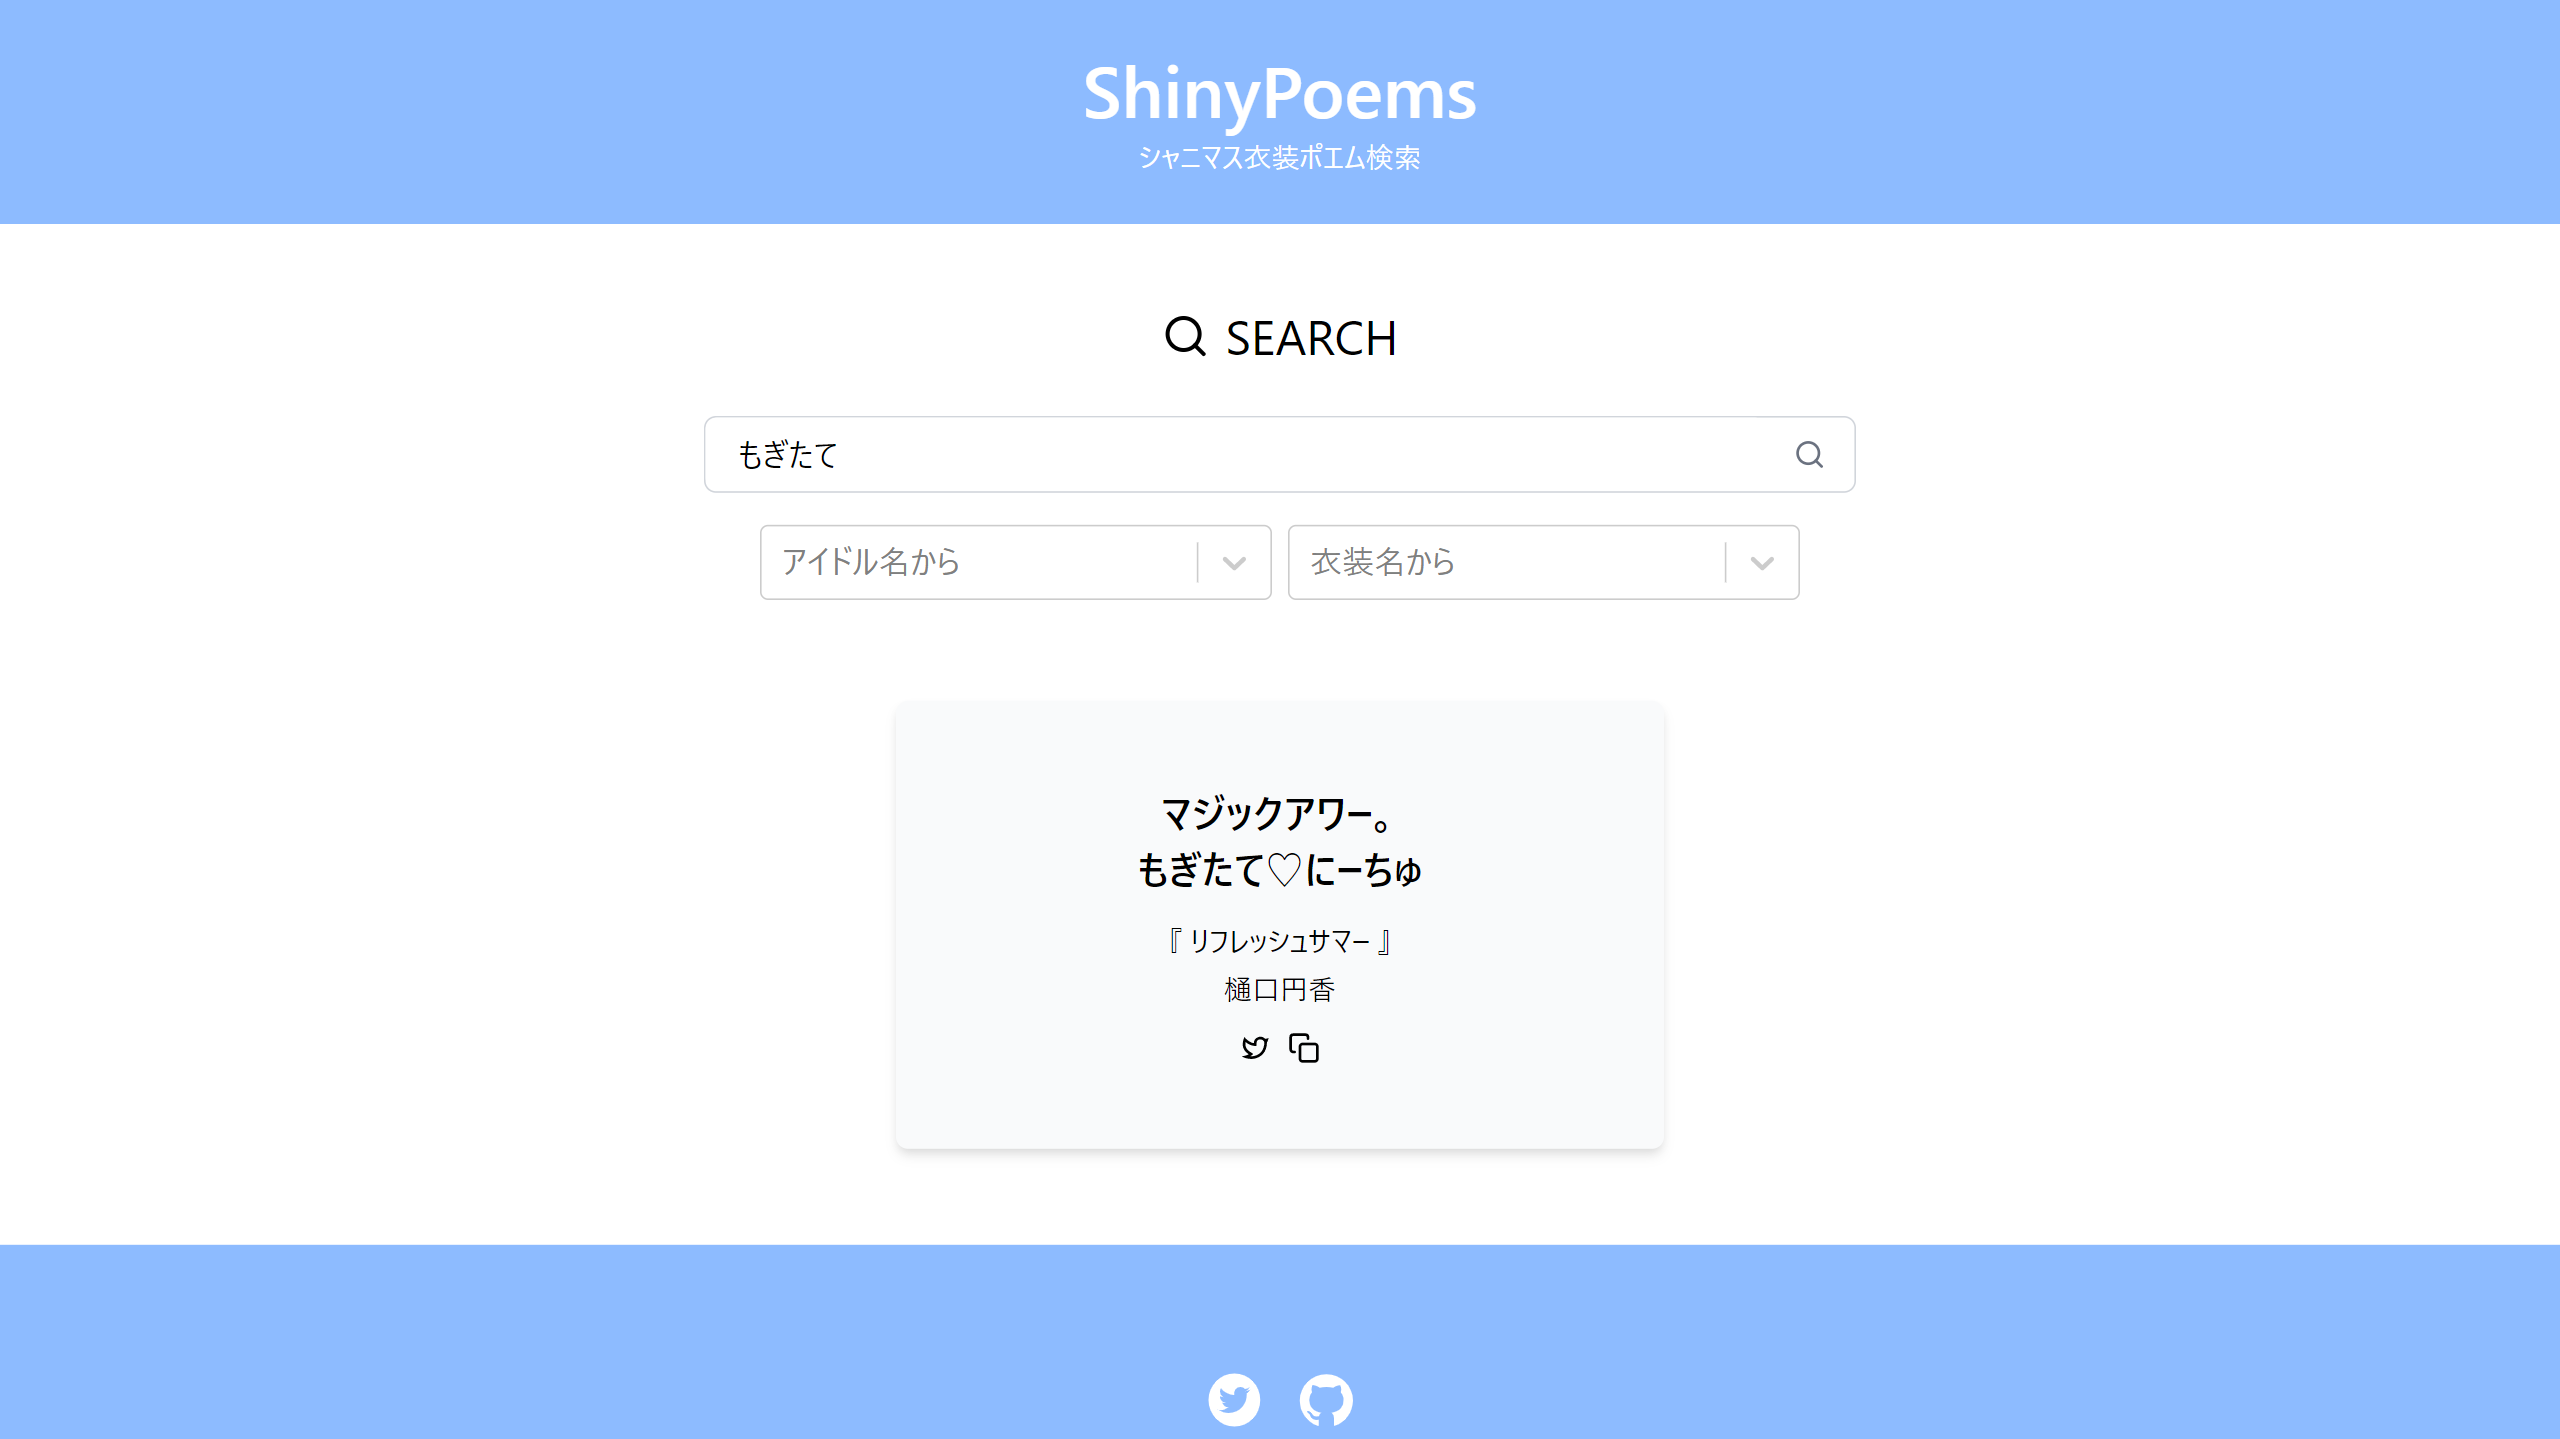
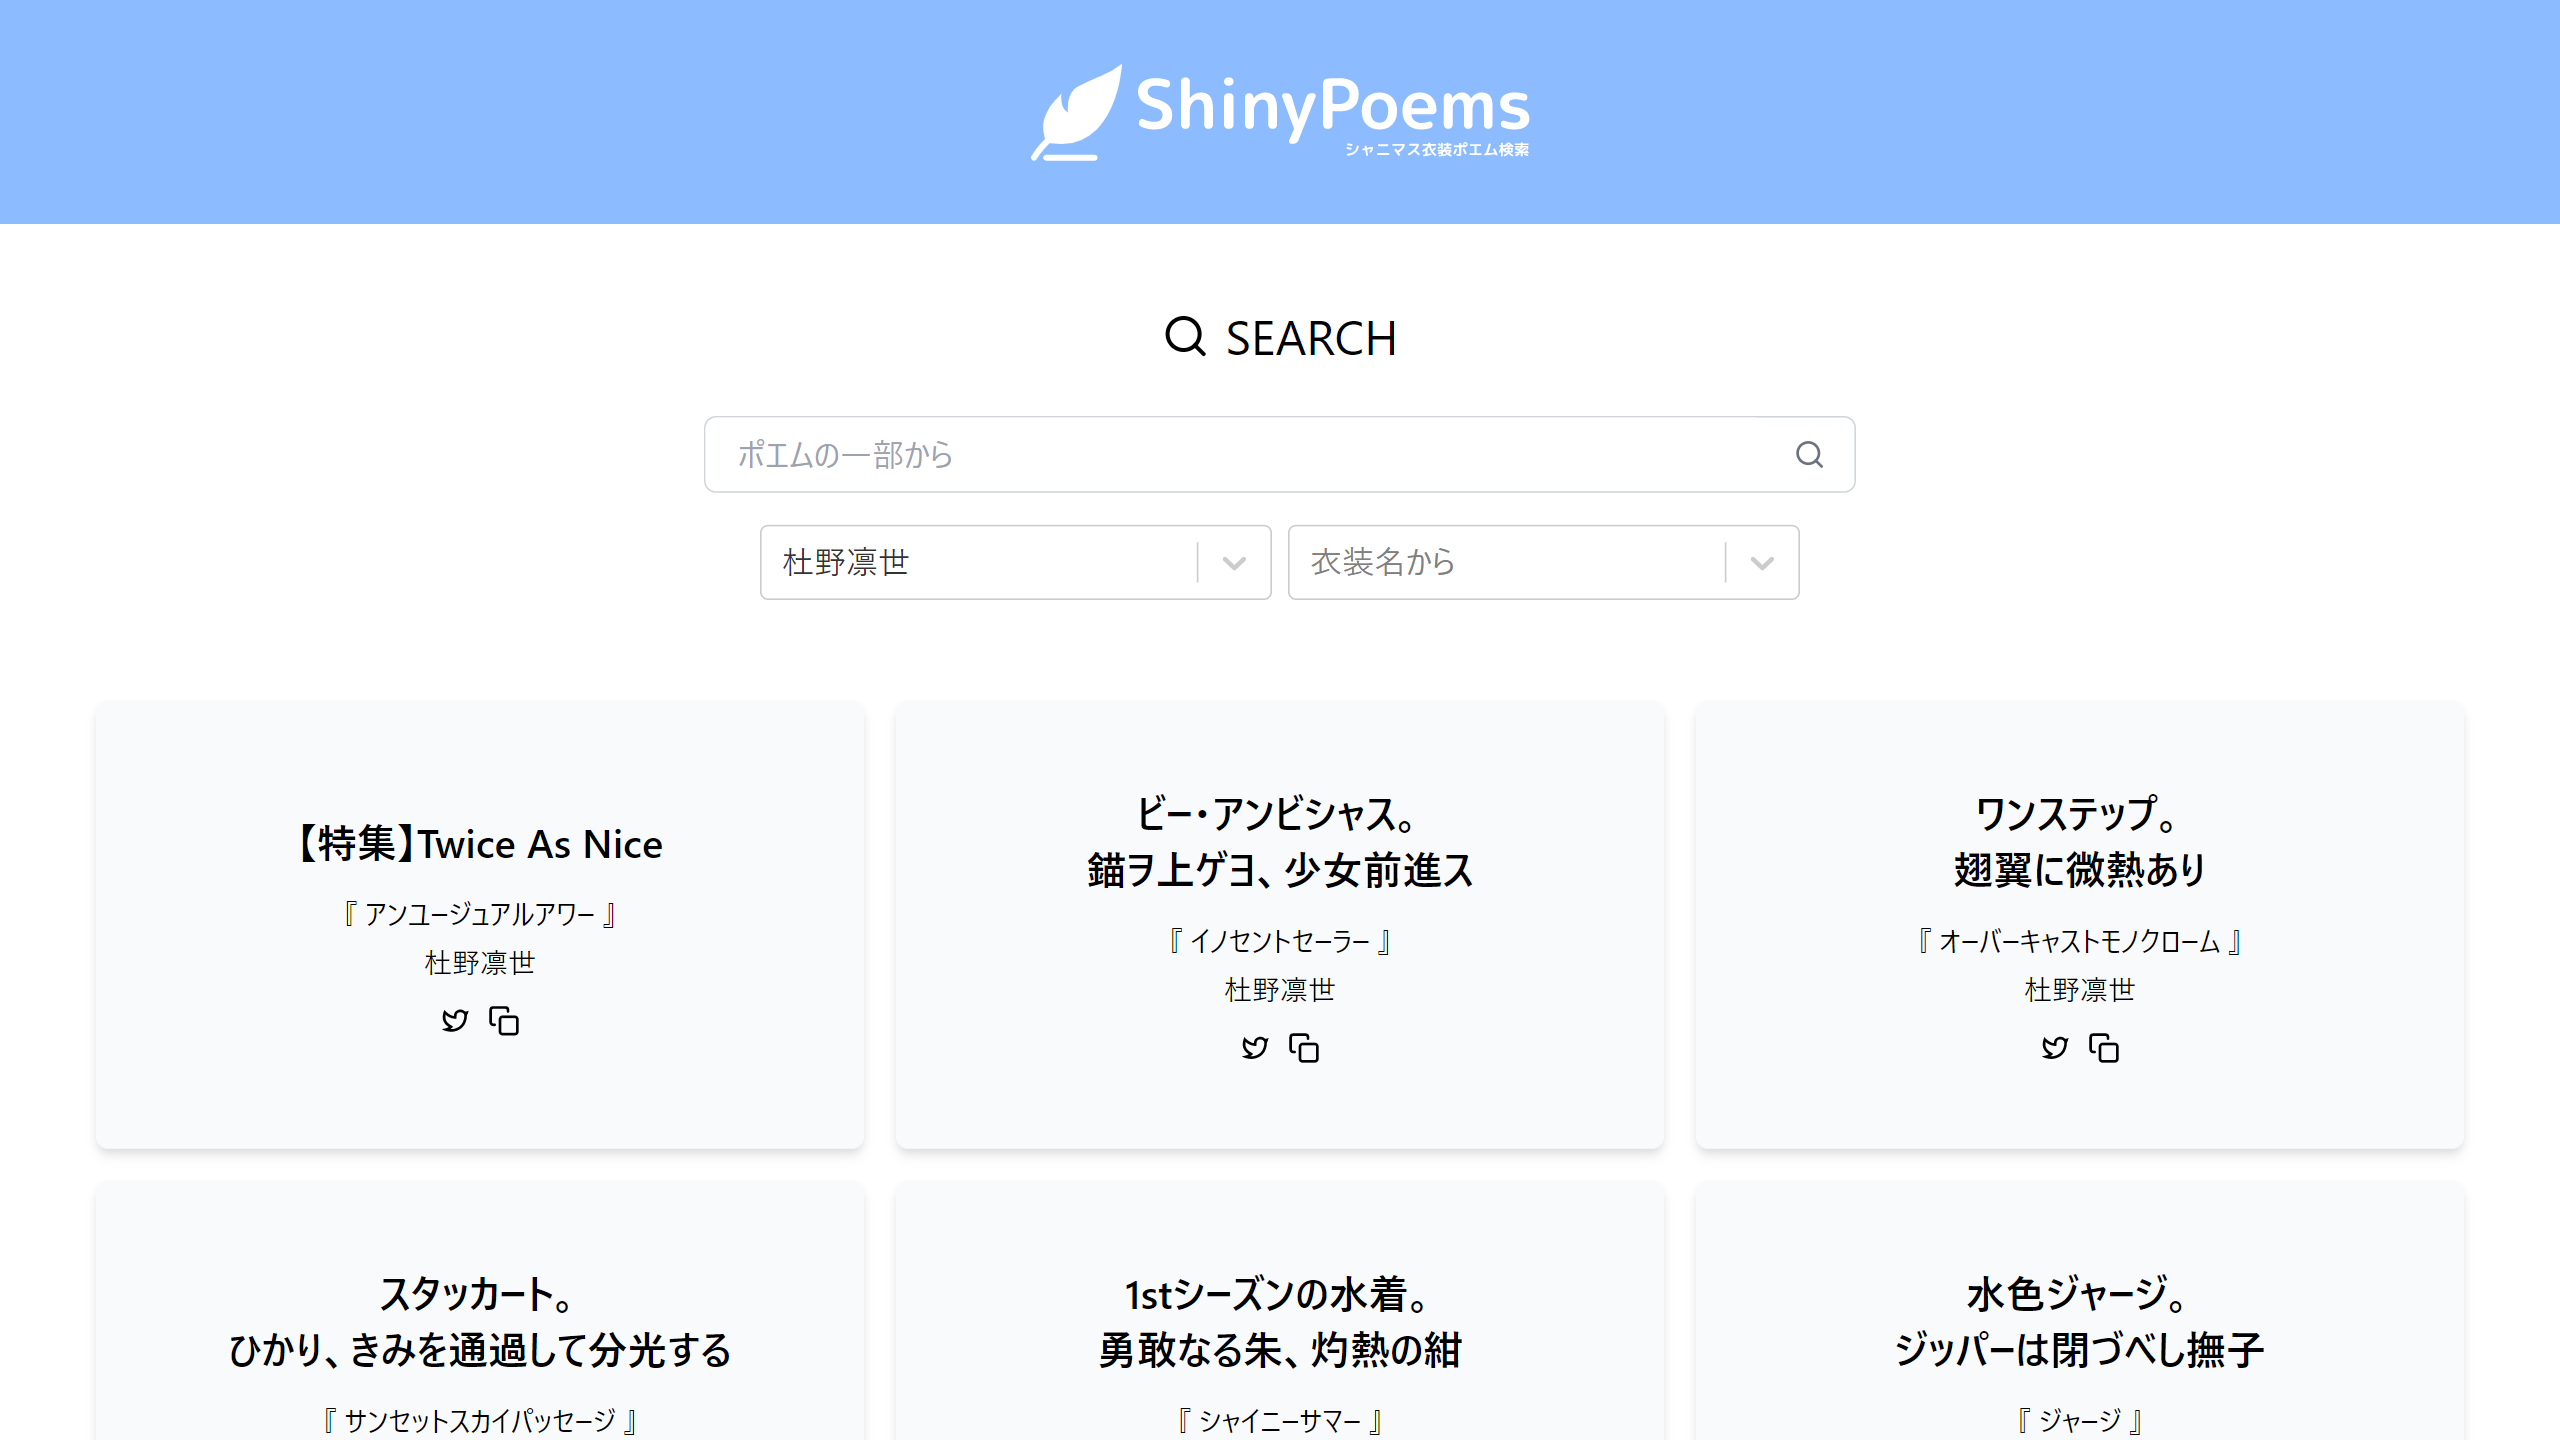
update: ShinyPoems

diff --git a/src/pages/other/shiny-poems.js b/src/pages/other/shiny-poems.js
@@ -4,17 +4,19 @@ import Detail from '../../components/detail/detail'
 
 const images = [
   'works/other/shiny-poems-1.png',
-  'works/other/shiny-poems-2.png'
+  'works/other/shiny-poems-2.png',
+  'works/other/shiny-poems-3.png'
 ]
 
 const sections = [
   {
     title: '概要',
-    text: 'シャイニーカラーズの衣装説明（ポエム）が検索できるサイトです'
+    text: 'シャイニーカラーズの衣装説明（ポエム）の検索・共有ができるサイトです'
   },
   {
     title: '使用技術',
-    text: 'Next.js / TypeScript / Tailwindcss / im@sparql(SPARQL) / Vercel'
+    text:
+      'Next.js / TypeScript / Tailwindcss / Cloudinary / im@sparql(SPARQL) / Vercel'
   }
 ]
 

diff --git a/src/data/works/other-cards.js b/src/data/works/other-cards.js
@@ -14,7 +14,7 @@ const otherCards = [
   {
     title: 'ShinyPoems',
     desc: 'シャニマス衣装ポエム検索',
-    image: 'works/other/shiny-poems-1.png',
+    image: 'works/other/shiny-poems-2.png',
     href: '/other/shiny-poems'
   },
   {
